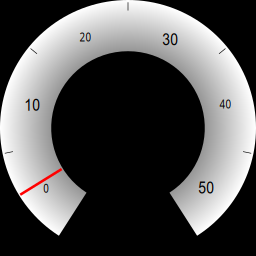
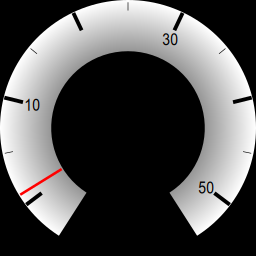
update docs for arc, bump version & update readme

diff --git a/setup.py b/setup.py
@@ -24,7 +24,7 @@ test_requirements = [
 
 setup(
     name="gopro-overlay",
-    version="0.122.0",
+    version="0.123.0",
     description="Overlay graphics dashboards onto GoPro footage, or create videos from GPX or FIT files",
     long_description=README,
     long_description_content_type="text/markdown",

diff --git a/gopro_overlay/__version__.py b/gopro_overlay/__version__.py
@@ -1,7 +1,7 @@
 __title__ = 'gopro_overlay'
 __description__ = 'Dashboards for GoPro'
 __url__ = 'https://github.com/time4tea/gopro-dashboard-overlay'
-__version__ = '0.122.0'
+__version__ = '0.123.0'
 __author__ = 'James Richardson'
 __author_email__ = 'james@time4tea.net'
 __license__ = 'GPLv3'

diff --git a/docs/xml/examples/06-cairo-gauge-donut/README.md b/docs/xml/examples/06-cairo-gauge-donut/README.md
@@ -93,53 +93,64 @@ There are 5 sectors by default. This can be changed with `sectors`
 <kbd>![06-cairo-gauge-donut-8.png](06-cairo-gauge-donut-8.png)</kbd>
 
 
+# Range Markers
+
+You can set range markers, like the`cairo-gauge-arc-annotated` widget.
+
+
+```xml
+<component type="cairo-gauge-donut" metric="speed" units="mph"  length="180" sectors="6" max="60" arc-value-upper="60" arc-value-lower="50" arc-inner-rgb="255,0,255,50" arc-outer-rgb="255,0,0,250" />
+```
+<kbd>![06-cairo-gauge-donut-9.png](06-cairo-gauge-donut-9.png)</kbd>
+
+
 # Colours
 
 Various colours can be set, either as RGB, or RGBA values.
 
-The following are available to change: `background-inner-rgb`, `background-outer-rgb`, `major-ann-rgb`, `minor-ann-rgb`, `needle-rgb`, `major-tick-rgb`, `minor-tick-rgb`
+The following are available to change: `background-inner-rgb`, `background-outer-rgb`, `major-ann-rgb`, `minor-ann-rgb`, `needle-rgb`, `major-tick-rgb`, `minor-tick-rgb`, `arc-inner-rgb`, `arc-outer-rgb`
 
 
 ```xml
 <component type="cairo-gauge-donut" metric="speed" units="mph"  background-inner-rgb="255,0,0"/>
 ```
-<kbd>![06-cairo-gauge-donut-9.png](06-cairo-gauge-donut-9.png)</kbd>
+<kbd>![06-cairo-gauge-donut-10.png](06-cairo-gauge-donut-10.png)</kbd>
 
 
 ```xml
 <component type="cairo-gauge-donut" metric="speed" units="mph"  background-outer-rgb="0,255,0"/>
 ```
-<kbd>![06-cairo-gauge-donut-10.png](06-cairo-gauge-donut-10.png)</kbd>
+<kbd>![06-cairo-gauge-donut-11.png](06-cairo-gauge-donut-11.png)</kbd>
 
 
 ```xml
 <component type="cairo-gauge-donut" metric="speed" units="mph"  major-ann-rgb="255,0,0"/>
 ```
-<kbd>![06-cairo-gauge-donut-11.png](06-cairo-gauge-donut-11.png)</kbd>
+<kbd>![06-cairo-gauge-donut-12.png](06-cairo-gauge-donut-12.png)</kbd>
 
 
 ```xml
 <component type="cairo-gauge-donut" metric="speed" units="mph"  minor-ann-rgb="255,0,0"/>
 ```
-<kbd>![06-cairo-gauge-donut-12.png](06-cairo-gauge-donut-12.png)</kbd>
+<kbd>![06-cairo-gauge-donut-13.png](06-cairo-gauge-donut-13.png)</kbd>
 
 
 ```xml
 <component type="cairo-gauge-donut" metric="speed" units="mph"  major-tick-rgb="255,0,0"/>
 ```
-<kbd>![06-cairo-gauge-donut-13.png](06-cairo-gauge-donut-13.png)</kbd>
+<kbd>![06-cairo-gauge-donut-14.png](06-cairo-gauge-donut-14.png)</kbd>
 
 
 ```xml
 <component type="cairo-gauge-donut" metric="speed" units="mph"  minor-tick-rgb="255,0,0"/>
 ```
-<kbd>![06-cairo-gauge-donut-14.png](06-cairo-gauge-donut-14.png)</kbd>
+<kbd>![06-cairo-gauge-donut-15.png](06-cairo-gauge-donut-15.png)</kbd>
 
 
 ```xml
 <component type="cairo-gauge-donut" metric="speed" units="mph"  needle-rgb="255,0,255"/>
 ```
-<kbd>![06-cairo-gauge-donut-15.png](06-cairo-gauge-donut-15.png)</kbd>
+<kbd>![06-cairo-gauge-donut-16.png](06-cairo-gauge-donut-16.png)</kbd>
 
 
 # Transparency
@@ -150,36 +161,36 @@ Any colour that is completely transparent will disappear... this can be used to 
 ```xml
 <component type="cairo-gauge-donut" metric="speed" units="mph"  background-inner-rgb="255,0,0,0"/>
 ```
-<kbd>![06-cairo-gauge-donut-16.png](06-cairo-gauge-donut-16.png)</kbd>
+<kbd>![06-cairo-gauge-donut-17.png](06-cairo-gauge-donut-17.png)</kbd>
 
 
 ```xml
 <component type="cairo-gauge-donut" metric="speed" units="mph"  major-ann-rgb="255,0,0,0"/>
 ```
-<kbd>![06-cairo-gauge-donut-17.png](06-cairo-gauge-donut-17.png)</kbd>
+<kbd>![06-cairo-gauge-donut-18.png](06-cairo-gauge-donut-18.png)</kbd>
 
 
 ```xml
 <component type="cairo-gauge-donut" metric="speed" units="mph"  minor-ann-rgb="255,0,0,0"/>
 ```
-<kbd>![06-cairo-gauge-donut-18.png](06-cairo-gauge-donut-18.png)</kbd>
+<kbd>![06-cairo-gauge-donut-19.png](06-cairo-gauge-donut-19.png)</kbd>
 
 
 ```xml
 <component type="cairo-gauge-donut" metric="speed" units="mph"  major-tick-rgb="255,0,0,0"/>
 ```
-<kbd>![06-cairo-gauge-donut-19.png](06-cairo-gauge-donut-19.png)</kbd>
+<kbd>![06-cairo-gauge-donut-20.png](06-cairo-gauge-donut-20.png)</kbd>
 
 
 ```xml
 <component type="cairo-gauge-donut" metric="speed" units="mph"  minor-tick-rgb="255,0,0,0"/>
 ```
-<kbd>![06-cairo-gauge-donut-20.png](06-cairo-gauge-donut-20.png)</kbd>
+<kbd>![06-cairo-gauge-donut-21.png](06-cairo-gauge-donut-21.png)</kbd>
 
 
 ```xml
 <component type="cairo-gauge-donut" metric="speed" units="mph"  needle-rgb="255,0,255,40"/>
 ```
-<kbd>![06-cairo-gauge-donut-21.png](06-cairo-gauge-donut-21.png)</kbd>
+<kbd>![06-cairo-gauge-donut-22.png](06-cairo-gauge-donut-22.png)</kbd>
 
 

diff --git a/build-scripts/examples/06-cairo-gauge-donut.md b/build-scripts/examples/06-cairo-gauge-donut.md
@@ -43,11 +43,17 @@ There are 5 sectors by default. This can be changed with `sectors`
 {{ <component type="cairo-gauge-donut" metric="speed" units="mph"  length="90" sectors="20" /> }}
 {{ <component type="cairo-gauge-donut" metric="speed" units="mph"  length="180" sectors="6" /> }}
 
+# Range Markers
+
+You can set range markers, like the`cairo-gauge-arc-annotated` widget.
+
+{{ <component type="cairo-gauge-donut" metric="speed" units="mph"  length="180" sectors="6" max="60" arc-value-upper="60" arc-value-lower="50" arc-inner-rgb="255,0,255,50" arc-outer-rgb="255,0,0,250" /> }}
+
 # Colours
 
 Various colours can be set, either as RGB, or RGBA values.
 
-The following are available to change: `background-inner-rgb`, `background-outer-rgb`, `major-ann-rgb`, `minor-ann-rgb`, `needle-rgb`, `major-tick-rgb`, `minor-tick-rgb`
+The following are available to change: `background-inner-rgb`, `background-outer-rgb`, `major-ann-rgb`, `minor-ann-rgb`, `needle-rgb`, `major-tick-rgb`, `minor-tick-rgb`, `arc-inner-rgb`, `arc-outer-rgb`
 
 {{ <component type="cairo-gauge-donut" metric="speed" units="mph"  background-inner-rgb="255,0,0"/> }}
 {{ <component type="cairo-gauge-donut" metric="speed" units="mph"  background-outer-rgb="0,255,0"/> }}

diff --git a/README.md b/README.md
@@ -193,6 +193,9 @@ https://github.com/JuanIrache/gopro-telemetry
 ## Latest Changes
 
 If you find any issues with new releases, please discuss in [GitHub Discussions](https://github.com/time4tea/gopro-dashboard-overlay/discussions)
+- 0.123.0 [Enhancement] Use better (but every so slightly slower, shouldn't make a huge difference) rotation method for maps - will give much better quality.
+  - Add new gauge - `cairo-gauge-donut` see [docs/xml](docs/xml/examples/06-cairo-gauge-donut)
+  - It looks like this: ![](docs/xml/examples/06-cairo-gauge-donut/06-cairo-gauge-donut-6.png)
 - 0.122.0 [Breaking] Previous change announced in v0.100.0 wasn't actually taking effect. Use --gpx-merge OVERWRITE to prefer values in gpx to gopro.
 - 0.121.0 [Enhancement] Build in some simple ffmpeg profiles - `nvgpu`, `nnvgpu`, `mov`, `vp8`, and `vp9` - see [docs/bin#ffmpeg-profiles](docs/bin#ffmpeg-profiles)
 - 0.120.0 [Fix] Resolve some Python3.10 compatibility issues. Thanks, [@KyleGW](https://github.com/KyleGW)
